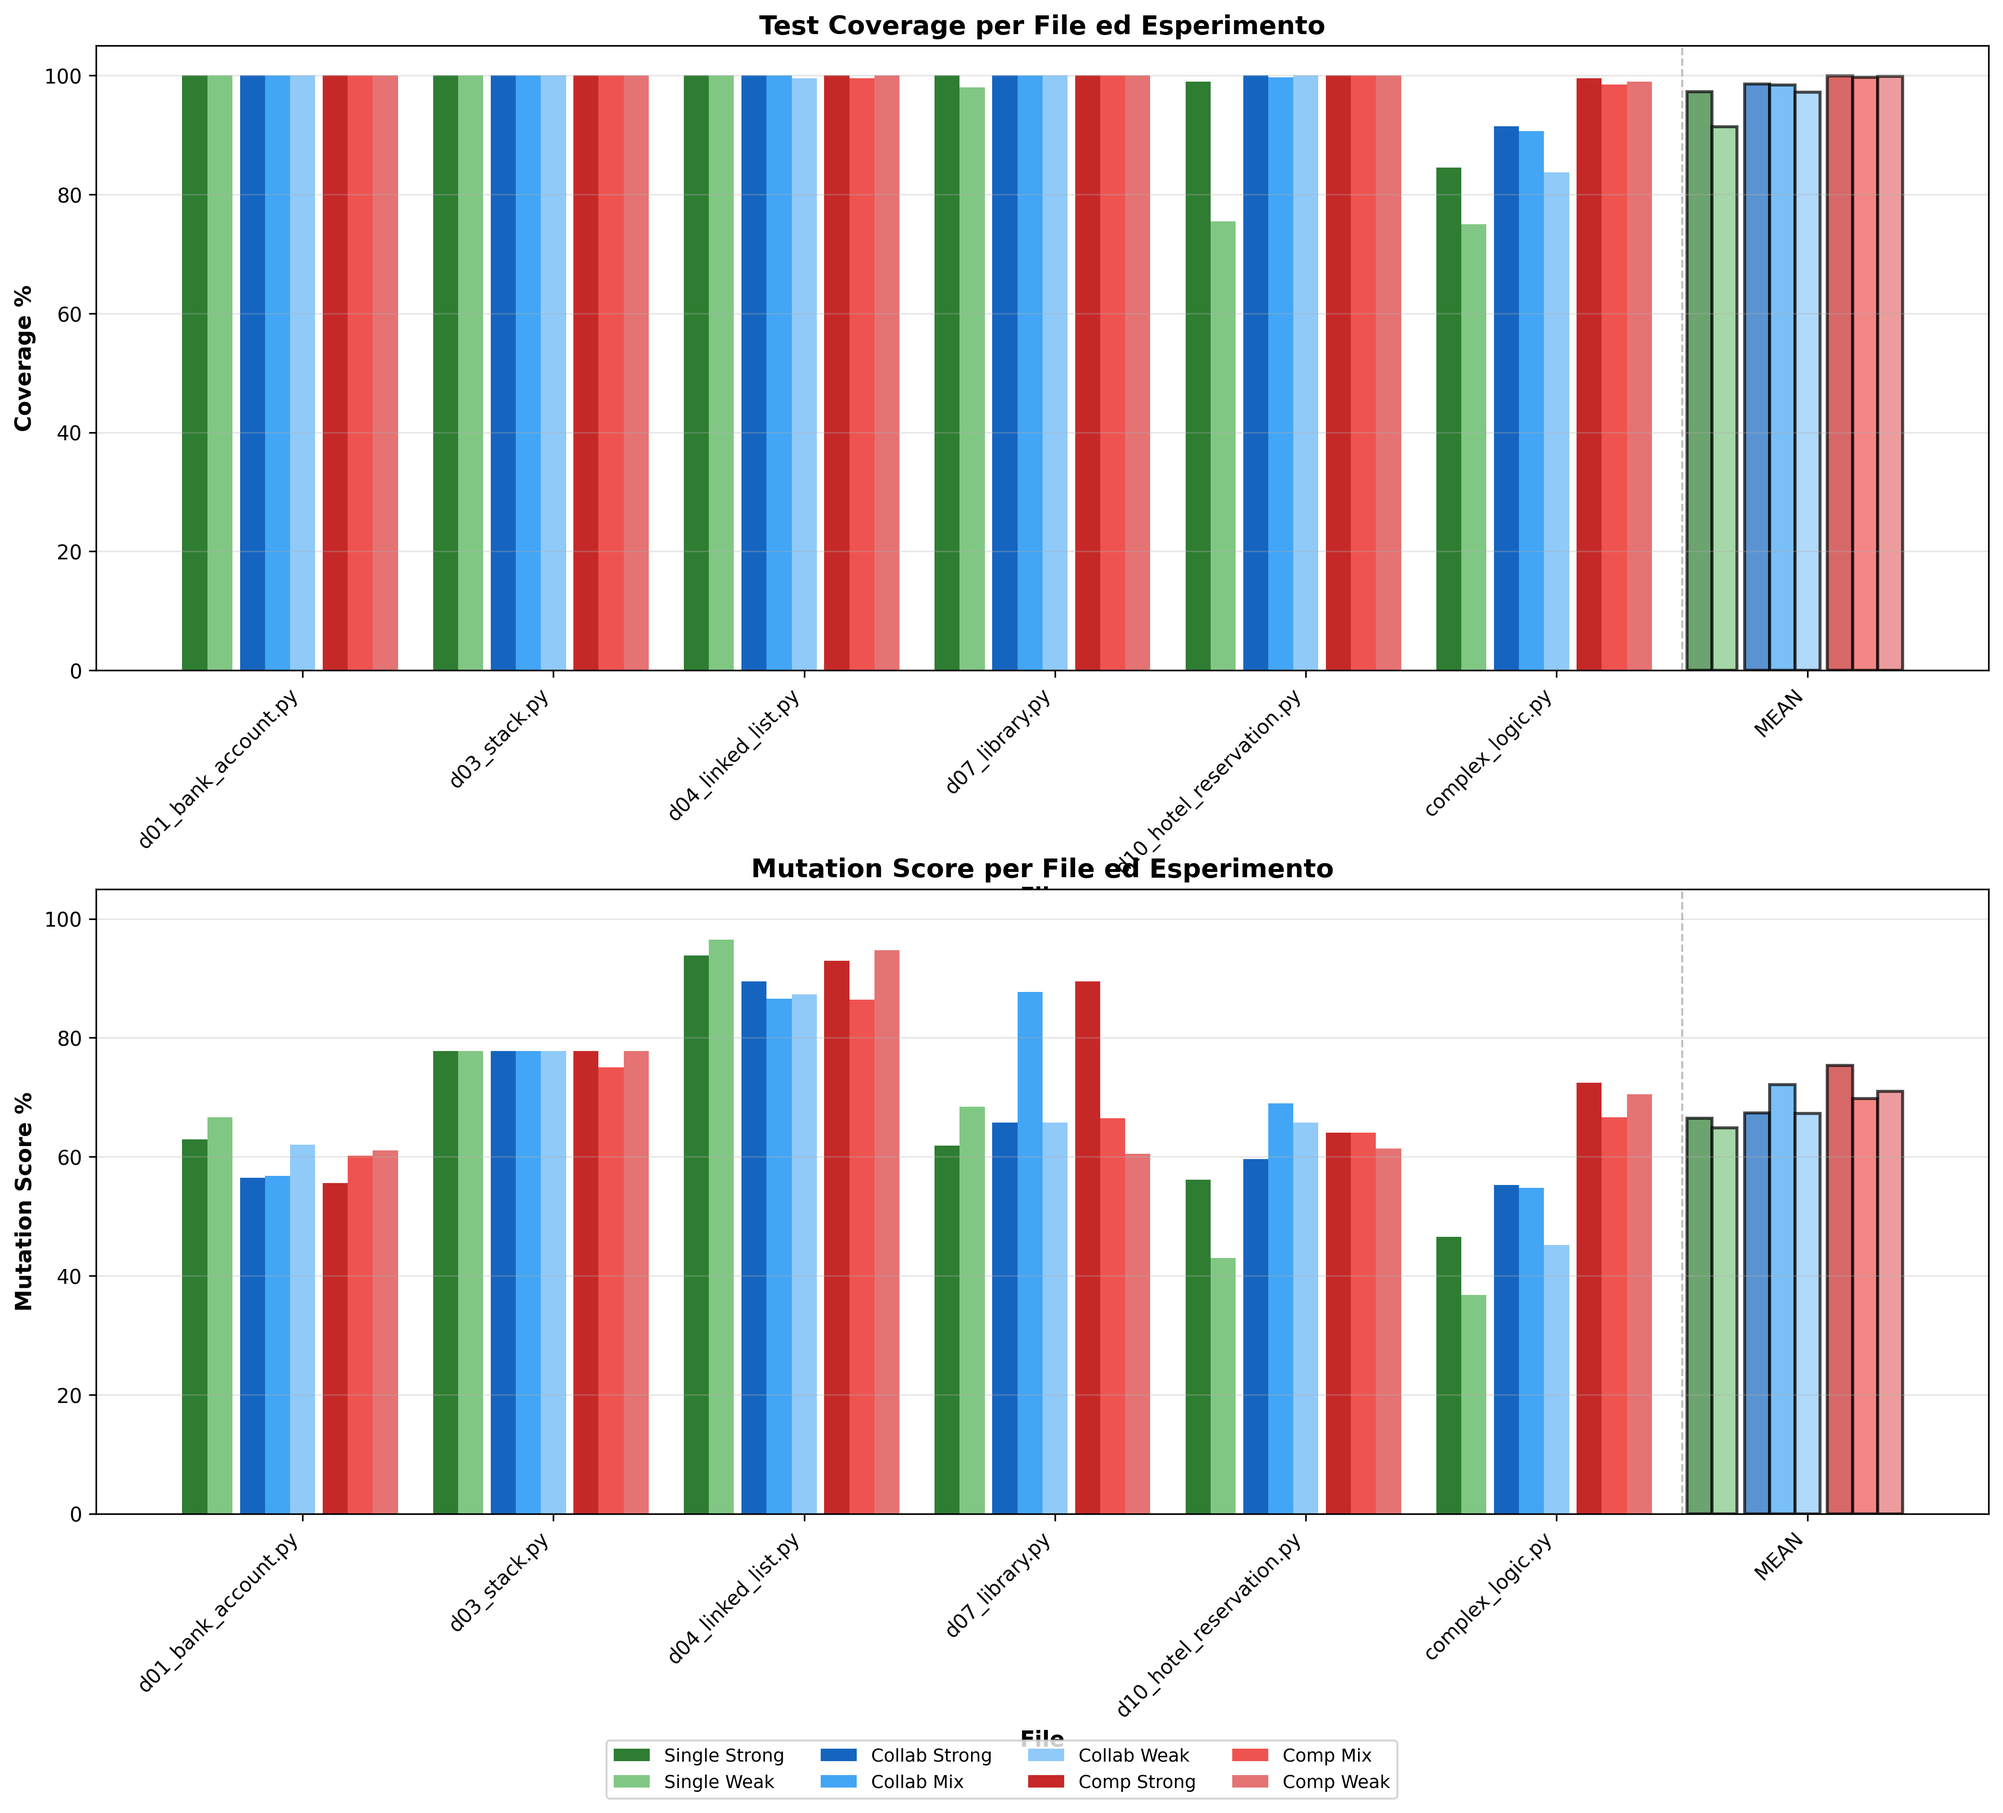
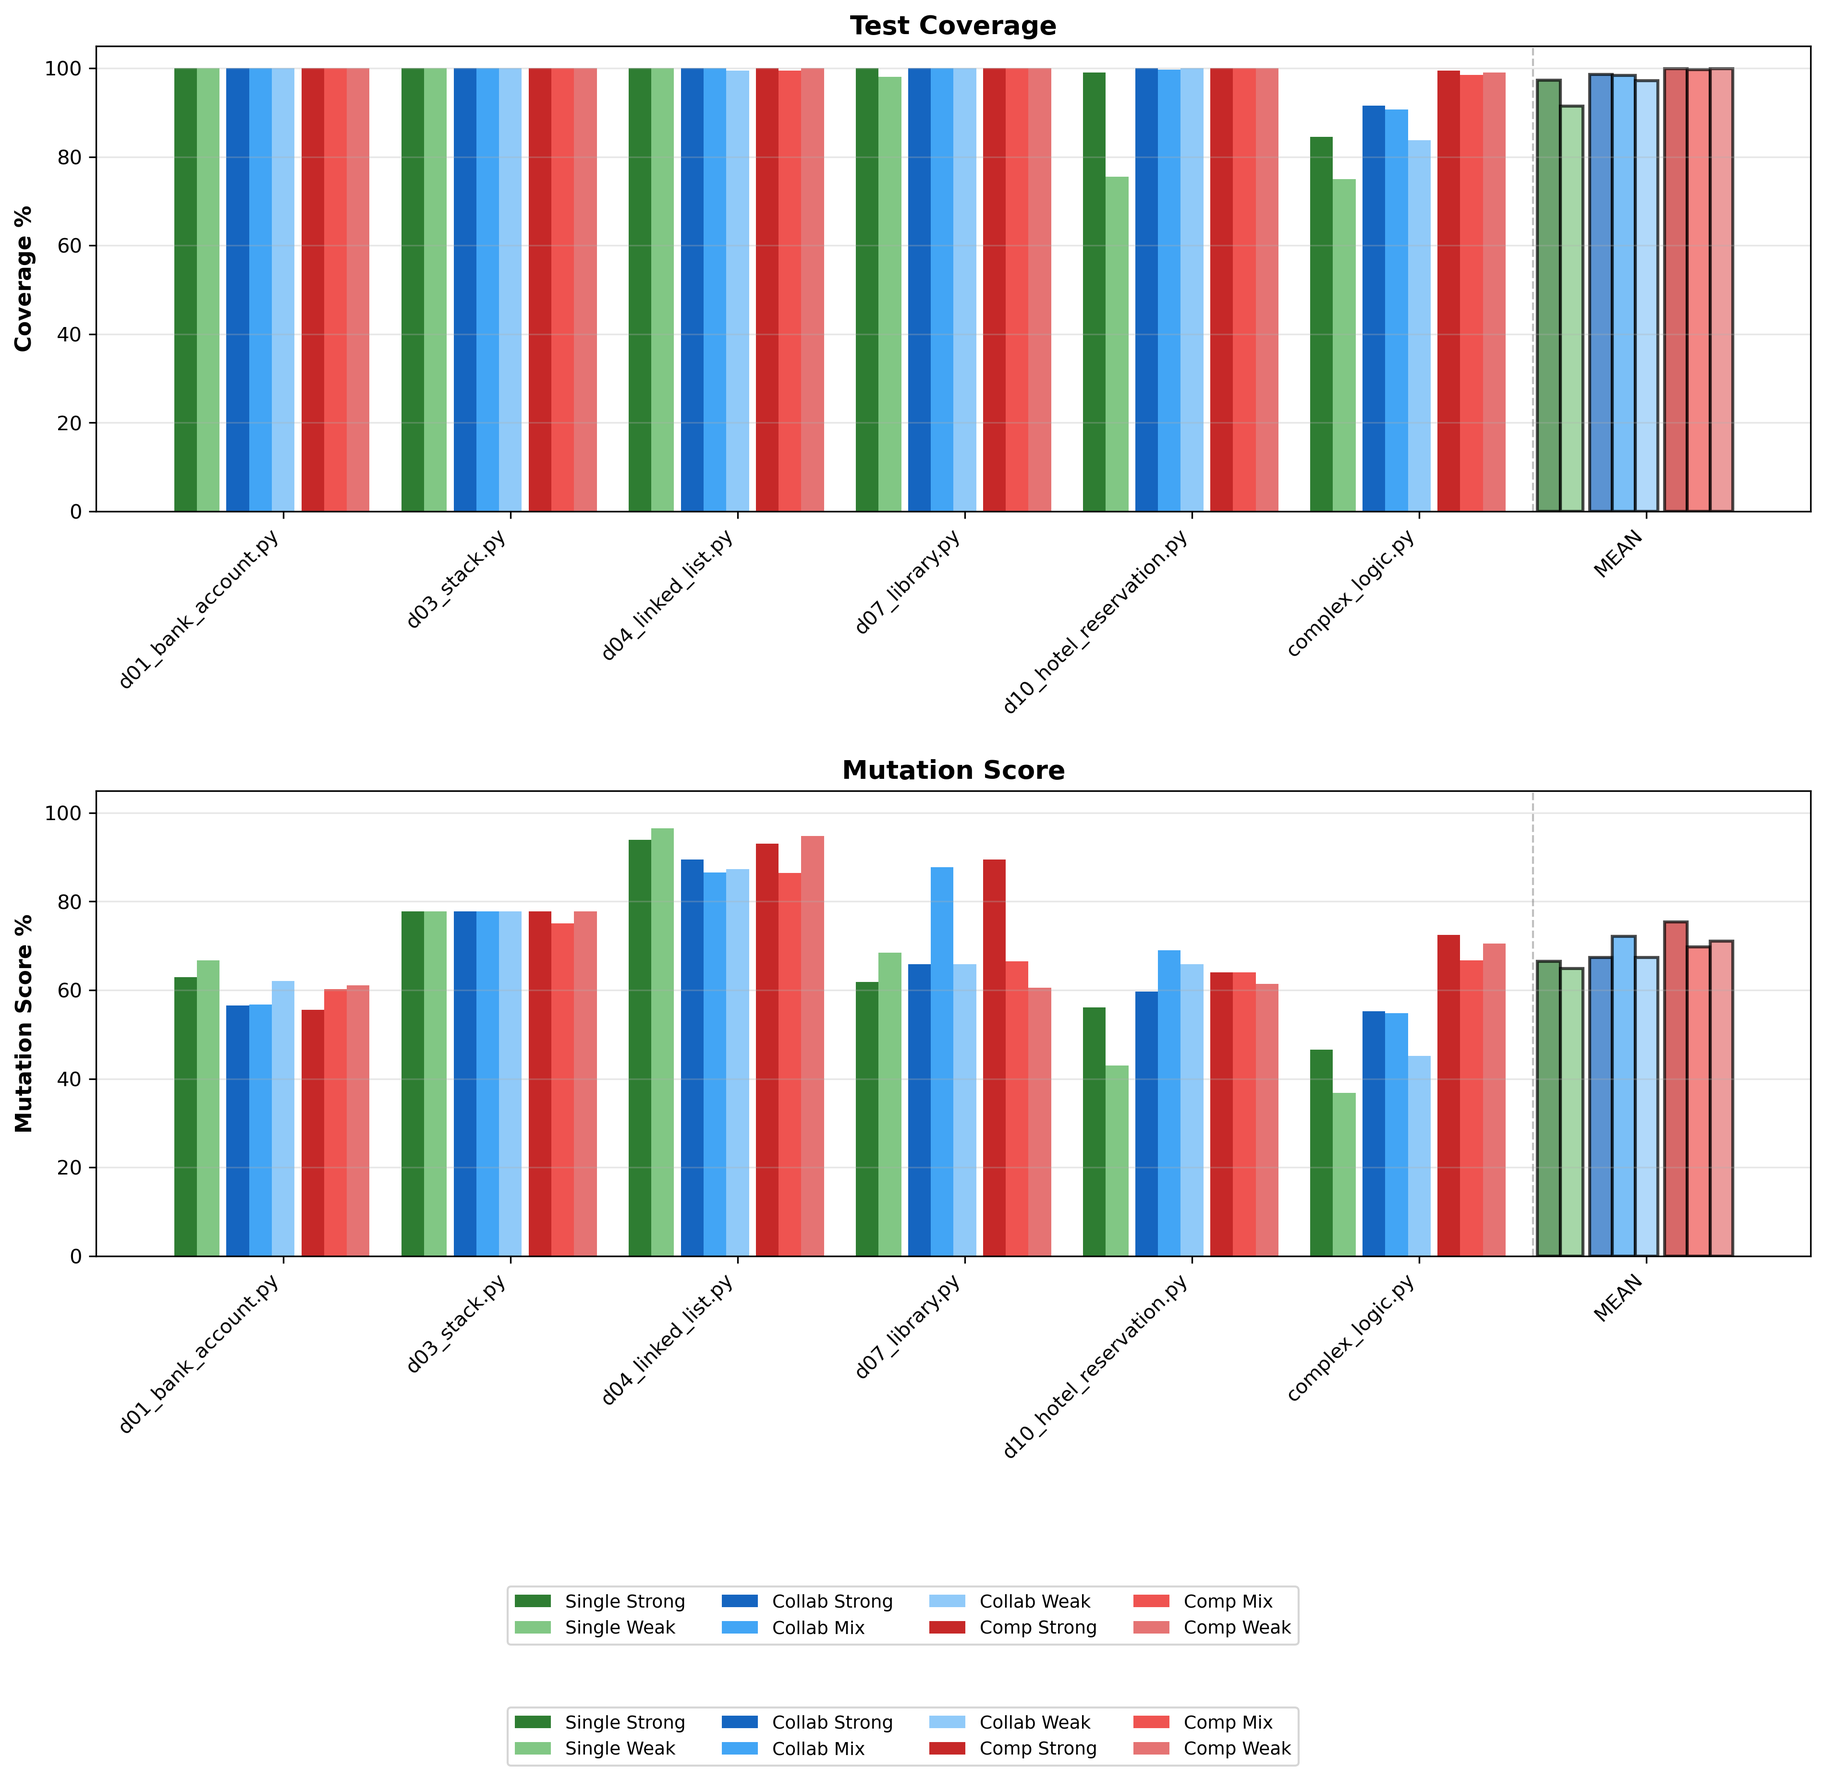
plot fix

diff --git a/results_plot.py b/results_plot.py
@@ -273,9 +273,9 @@ def plot_metrics(aggregated_data, output_folder):
         bars[-1].set_edgecolor('black')
         bars[-1].set_linewidth(1.5)
     
-    ax1.set_xlabel('File', fontweight='bold', fontsize=11)
+    # ax1.set_xlabel('File', fontweight='bold', fontsize=11)
     ax1.set_ylabel('Coverage %', fontweight='bold', fontsize=11)
-    ax1.set_title('Test Coverage per File ed Esperimento', fontweight='bold', fontsize=13)
+    ax1.set_title('Test Coverage', fontweight='bold', fontsize=13)
     ax1.set_xticks(x)
     ax1.set_xticklabels(files_with_mean, rotation=45, ha='right')
     ax1.grid(axis='y', alpha=0.3)
@@ -303,9 +303,9 @@ def plot_metrics(aggregated_data, output_folder):
         bars[-1].set_edgecolor('black')
         bars[-1].set_linewidth(1.5)
     
-    ax2.set_xlabel('File', fontweight='bold', fontsize=11)
+    # ax2.set_xlabel('File', fontweight='bold', fontsize=11)
     ax2.set_ylabel('Mutation Score %', fontweight='bold', fontsize=11)
-    ax2.set_title('Mutation Score per File ed Esperimento', fontweight='bold', fontsize=13)
+    ax2.set_title('Mutation Score', fontweight='bold', fontsize=13)
     ax2.set_xticks(x)
     ax2.set_xticklabels(files_with_mean, rotation=45, ha='right')
     ax2.grid(axis='y', alpha=0.3)
@@ -314,8 +314,19 @@ def plot_metrics(aggregated_data, output_folder):
     # Aggiungi una linea verticale prima di MEAN per separarlo
     ax2.axvline(x=len(files) - 0.5, color='gray', linestyle='--', linewidth=1, alpha=0.5)
     
-    plt.tight_layout()
-    plt.subplots_adjust(bottom=0.12, hspace=0.35)
+    plt.subplots_adjust(bottom=0.25, hspace=0.6, left=0.1, right=0.95, top=0.95)
+
+    # La legenda va spostata ancora più in basso dato che abbiamo alzato il margine bottom
+    handles, labels = ax1.get_legend_handles_labels()
+    fig.legend(
+        handles, 
+        labels,
+        loc='lower center', 
+        bbox_to_anchor=(0.5, 0.02), # Alzato leggermente rispetto al bordo assoluto
+        ncol=4,
+        fontsize=9,
+        frameon=True
+    )
 
     # Aggiungi legenda fuori dal grafico (in basso al centro)
     handles, labels = ax1.get_legend_handles_labels()
